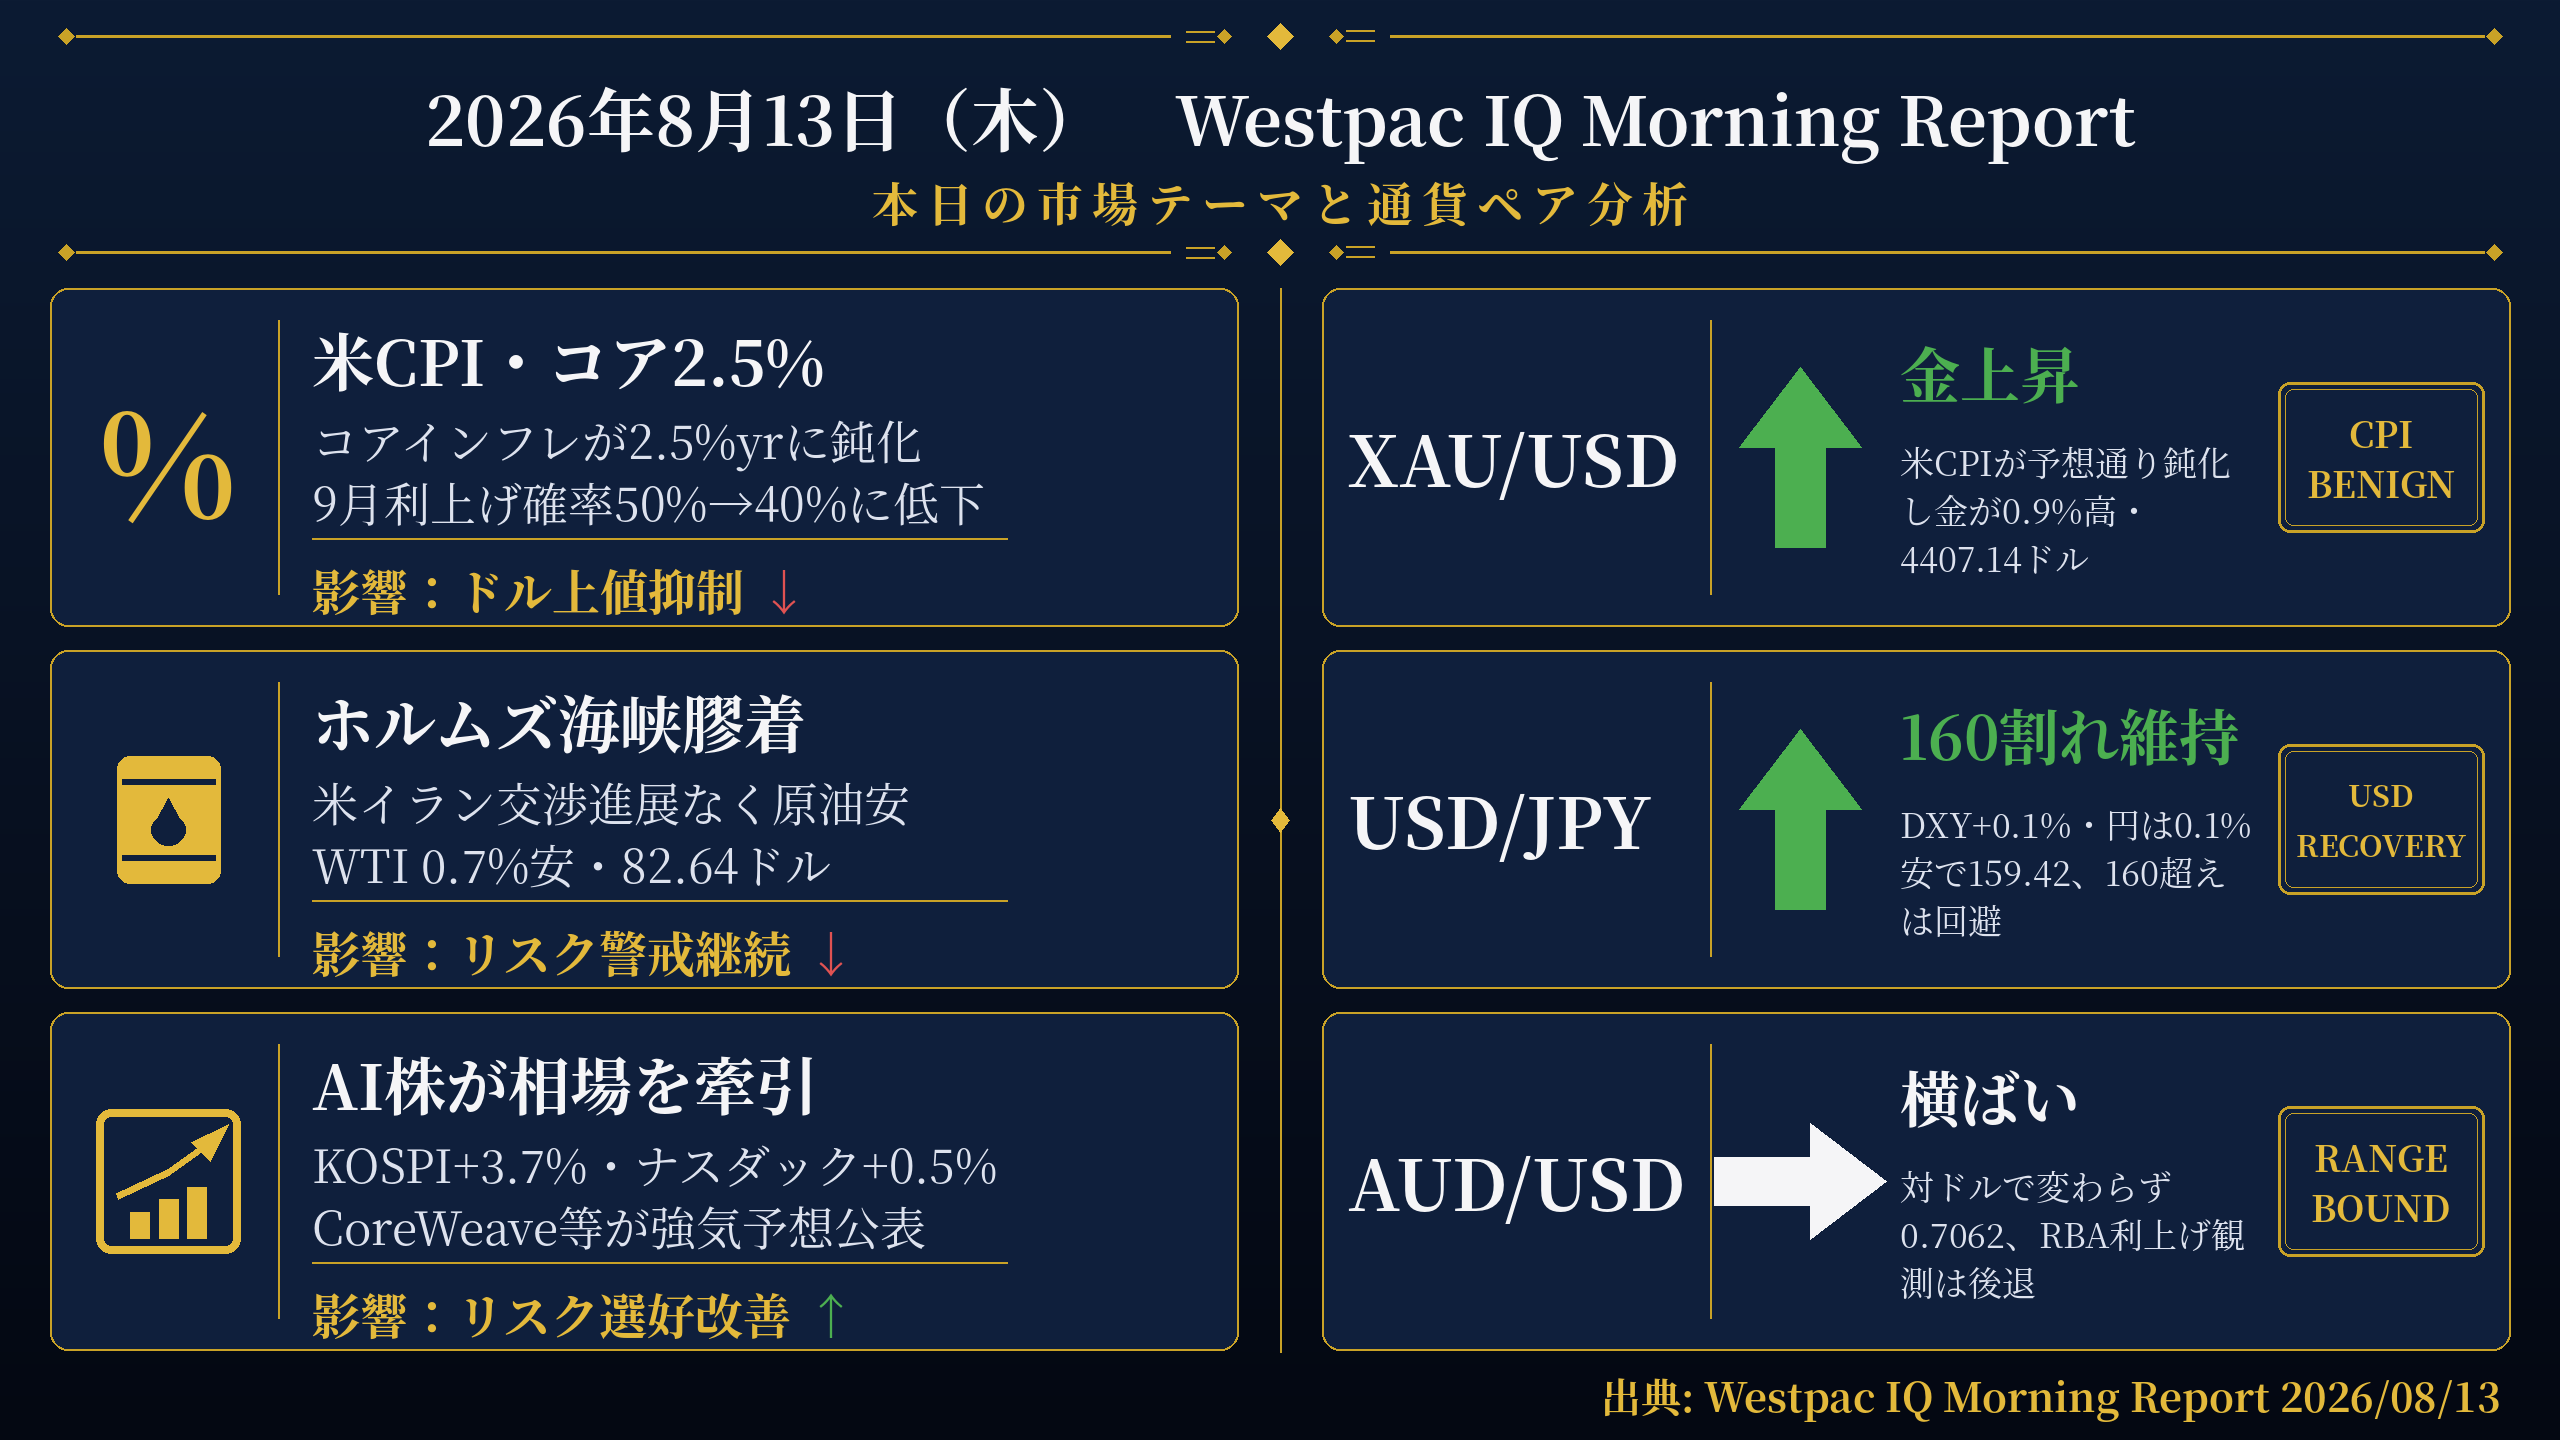
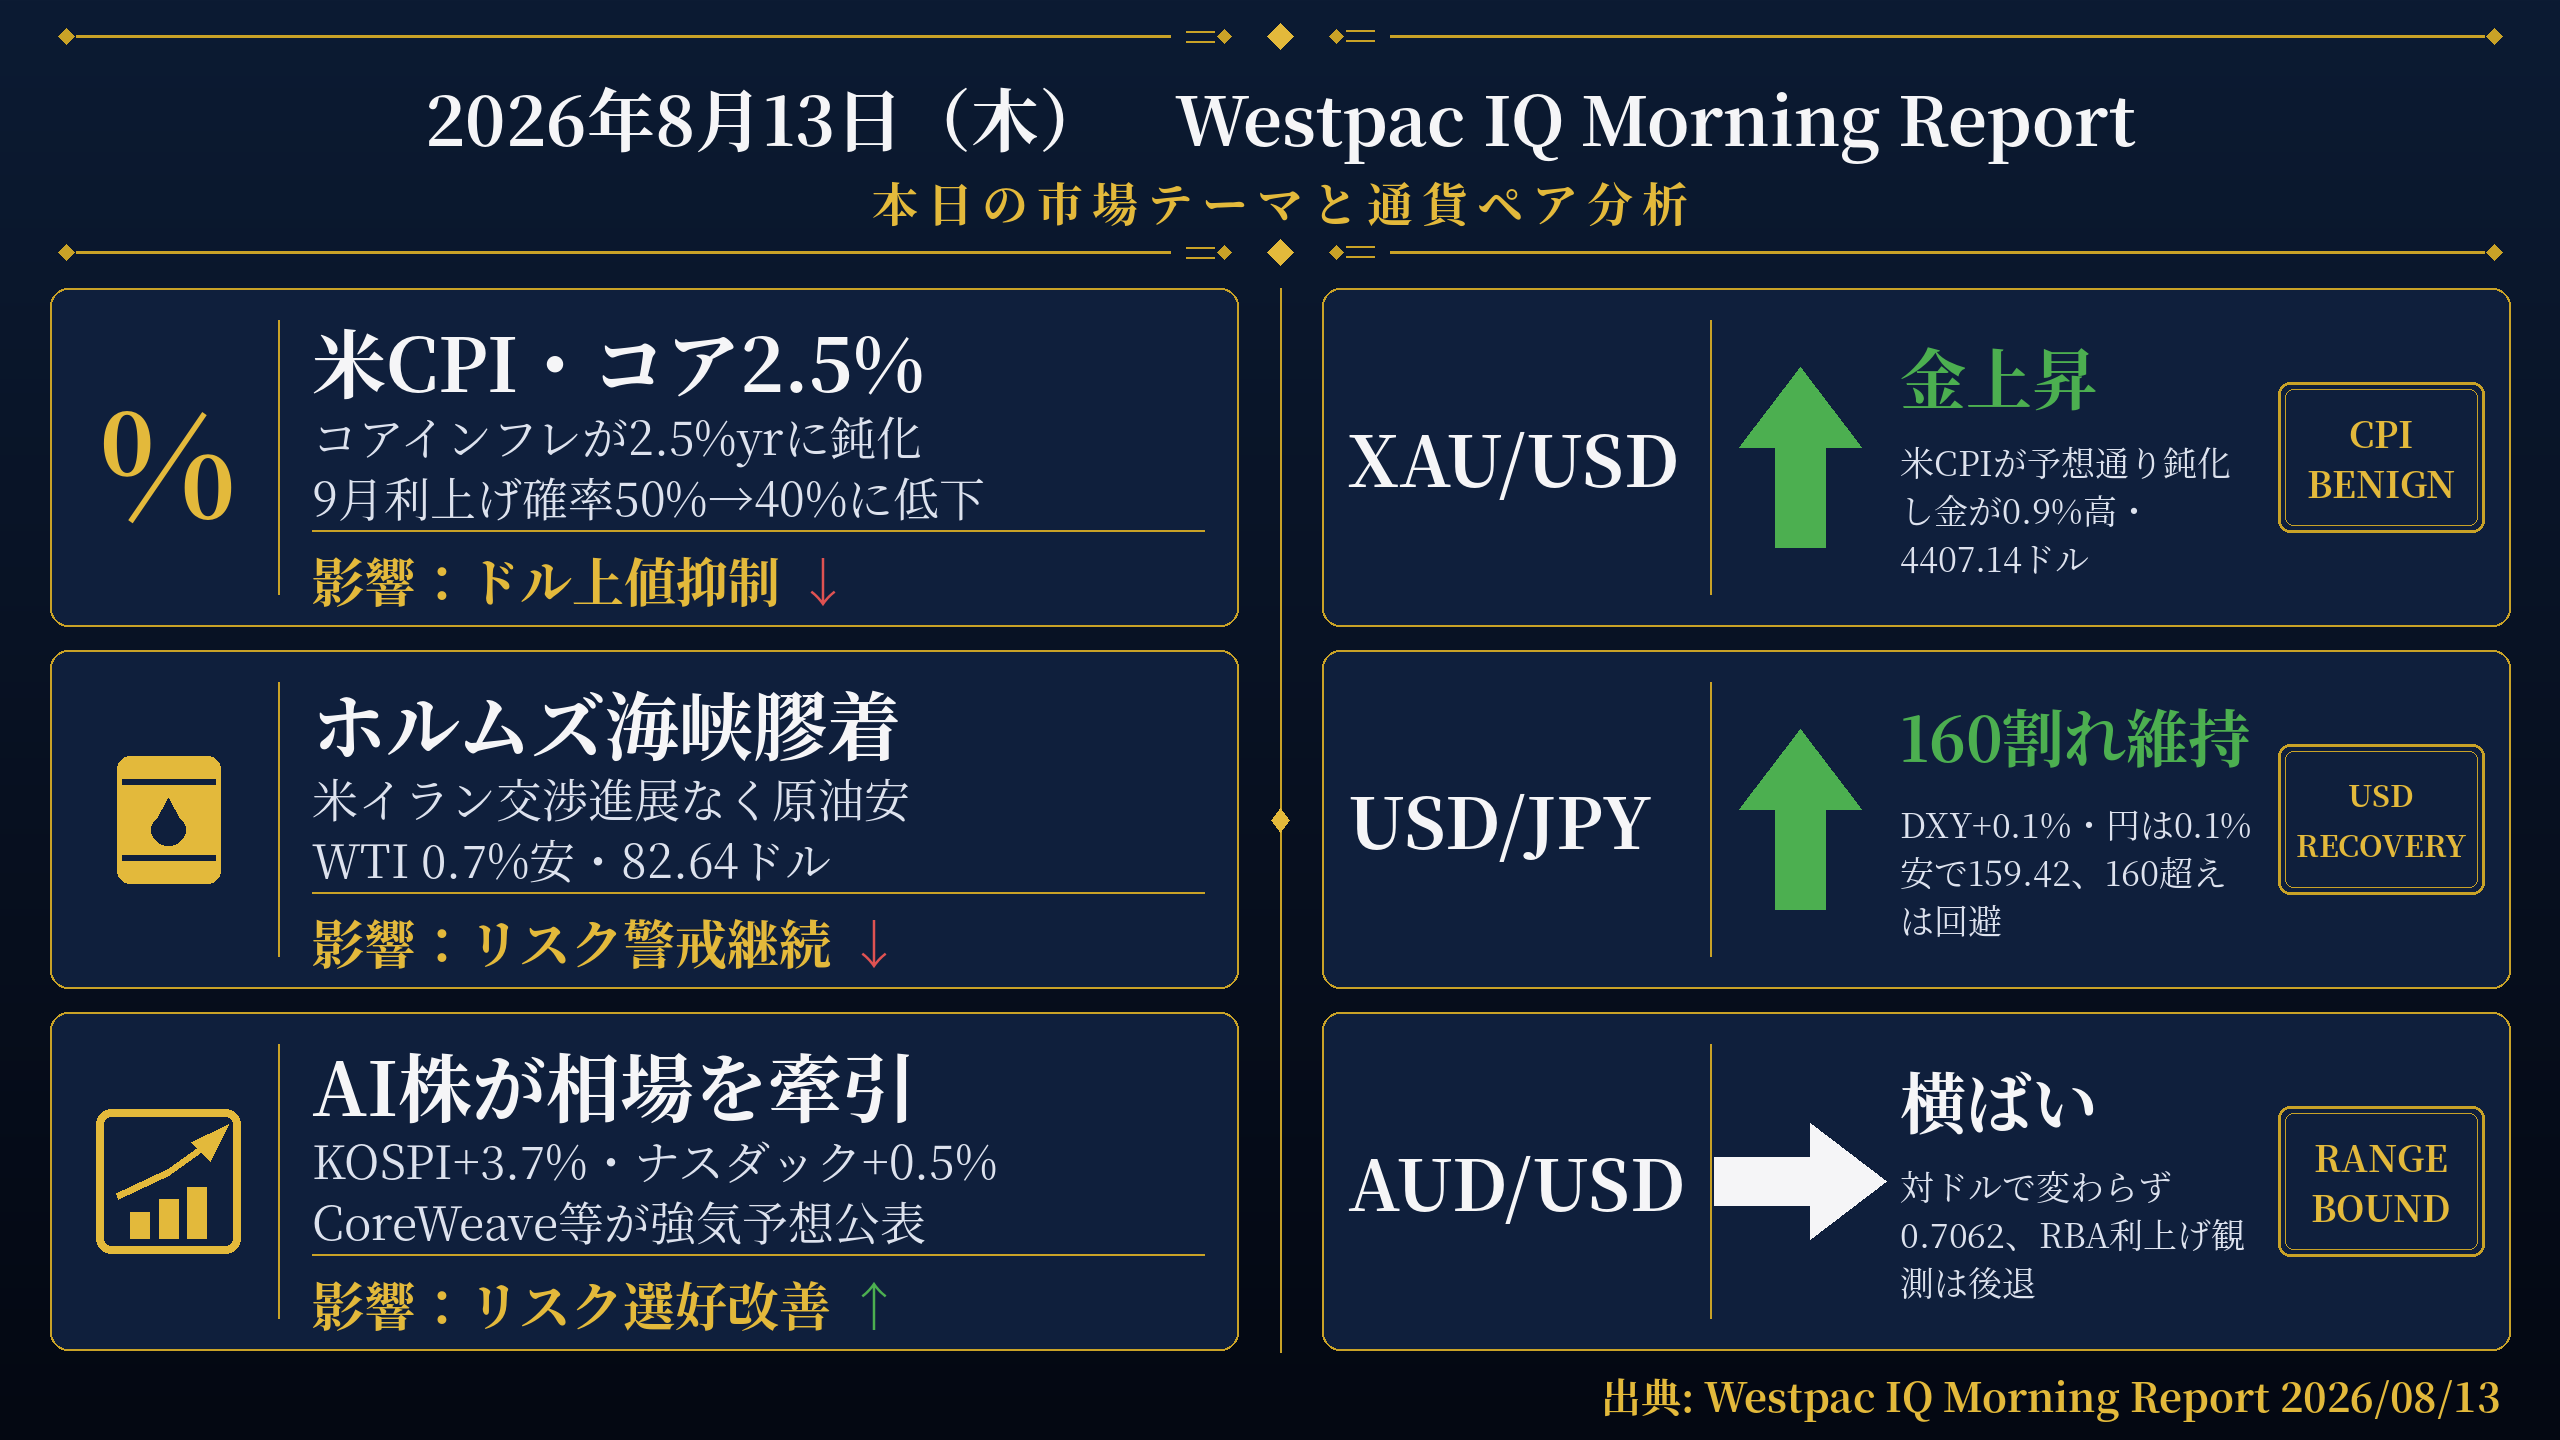
Render v3: auto-grow theme card text to fill the frame
v3 (user-supplied): title auto-grows up to 74px and desc up to 46px
until the card width is used, instead of a single fixed size that left
headroom unused. The gold underline beneath desc now spans the full
card width instead of stopping at 78%. Direction labels auto-grow up to
66px under the same fill-the-frame rule. Background gradient and
token-aware wrapping (from v2) are unchanged.

generate_prompt.md: widen theme title to 12-16 chars and desc to 18-24
chars/line (was a single "or fewer" ceiling) with guidance to use the
extra room for denser, more specific content instead of terse noun
phrases, since v3's larger auto-fit text has more room to fill. AEST/
AEDT conversion, GBP/USD-style value omission, and the self-proofread
pass were already added in the prior commit and are unchanged.

verify_report.py G9/G10 are unchanged — already match this request's
spec from the prior commit.

outputs/2026-08-13/report_image.png re-rendered from the same
report_data.json with the v3 renderer.

diff --git a/scripts/render_image.py b/scripts/render_image.py
@@ -262,7 +262,7 @@ def render(data: dict, out_path: str):
     my = (top + bottom) // 2
     d.polygon([(mid_x, my - 12), (mid_x + 9, my), (mid_x, my + 12), (mid_x - 9, my)], fill=GOLD_LT)
 
-    # ---- 左：主要テーマ3件（文字大型化＋自動フィット）
+    # ---- 左：主要テーマ3件（枠幅を使い切るまで自動拡大）
     for i, th in enumerate(data["themes"][:3]):
         cy0 = top + i * (card_h + gap)
         cy1 = cy0 + card_h
@@ -274,25 +274,35 @@ def render(data: dict, out_path: str):
         tx = lx0 + 262
         t_max_w = lx1 - 34 - tx
 
-        f_title = fit("serif_bold", str(th.get("title", "")), t_max_w, 62, 44)
-        d.text((tx, cy0 + 26), th.get("title", ""), font=f_title, fill=WHITE)
+        # v3: 枠幅を使い切るまで自動拡大（上限あり・縦の収まりは影響行から自動調整）
+        title = str(th.get("title", ""))
+        t_size = 44
+        while t_size < 74 and font("serif_bold", t_size + 2).getlength(title) <= t_max_w:
+            t_size += 2
+        f_title = font("serif_bold", t_size)
+        d.text((tx, cy0 + 18), title, font=f_title, fill=WHITE)
 
         desc_lines = str(th.get("desc", "")).split("\n")[:2]
-        size = 46
-        while size > 32 and any(font("serif_reg", size).getlength(l) > t_max_w for l in desc_lines):
-            size -= 2
-        f_desc = font("serif_reg", size)
-        dy = cy0 + 118
+        d_size = 32
+        while d_size < 46 and all(font("serif_reg", d_size + 2).getlength(l) <= t_max_w
+                                  for l in desc_lines):
+            d_size += 2
+        f_desc = font("serif_reg", d_size)
+        dy = cy0 + 24 + t_size + 16
         for ln in desc_lines:
-            for wl in wrap(ln, f_desc, t_max_w, 1):
-                d.text((tx, dy), wl, font=f_desc, fill=BODY)
-            dy += int(size * 1.36)
-        under_y = dy + 8
-        d.line([(tx, under_y), (tx + int(t_max_w * 0.78), under_y)], fill=GOLD, width=2)
+            d.text((tx, dy), wrap(ln, f_desc, t_max_w, 1)[0], font=f_desc, fill=BODY)
+            dy += int(d_size * 1.34)
+        under_y = dy + 6
+        d.line([(tx, under_y), (lx1 - 34, under_y)], fill=GOLD, width=2)
 
         imp_text = f"影響：{th.get('impact', '')} "
-        f_imp = fit("serif_bold", imp_text + "↑", t_max_w, 48, 36)
-        iy = under_y + 16
+        i_size = 36
+        while i_size < 52 and font("serif_bold", i_size + 2).getlength(imp_text + "↑") <= t_max_w:
+            i_size += 2
+        while i_size > 34 and under_y + 12 + int(i_size * 1.18) > cy1 - 12:
+            i_size -= 2
+        f_imp = font("serif_bold", i_size)
+        iy = under_y + 12
         d.text((tx, iy), imp_text, font=f_imp, fill=GOLD_LT)
         ar, ac = impact_arrow_char(th.get("impact_dir", "flat"))
         d.text((tx + f_imp.getlength(imp_text) + 4, iy), ar, font=f_imp, fill=ac)
@@ -325,7 +335,10 @@ def render(data: dict, out_path: str):
         text_w = bx0 - 24 - tx
 
         lab = str(pr.get("label", ""))
-        f_lab = fit("serif_bold", lab, text_w, 60, 40)
+        l_size = 40
+        while l_size < 66 and font("serif_bold", l_size + 2).getlength(lab) <= text_w:
+            l_size += 2
+        f_lab = font("serif_bold", l_size)
         d.text((tx, cy0 + 40), lab, font=f_lab, fill=label_color(direction))
 
         f_rsn = font("serif_reg", 34)

diff --git a/prompts/generate_prompt.md b/prompts/generate_prompt.md
@@ -15,8 +15,8 @@
   "themes": [
     {
       "icon": "oil | market | bank | globe | percent | default のいずれか",
-      "title": "テーマ見出し（16文字以内）",
-      "desc": "説明2行。改行\\nで区切る。各行22文字以内",
+      "title": "テーマ見出し（12〜16文字。枠幅を活かし、短縮しすぎず具体的な情報量で書く。例:「ホルムズ海峡膠着」ではなく「ホルムズ再開に進展なく原油反落」）",
+      "desc": "説明2行。改行\\nで区切る。各行18〜24文字。枠幅を活かした情報量で書く（極端に短い体言止めの羅列にしない）",
       "impact": "影響の要約（12文字以内。「影響：」は付けない）",
       "impact_dir": "up | down | flat"
     }
